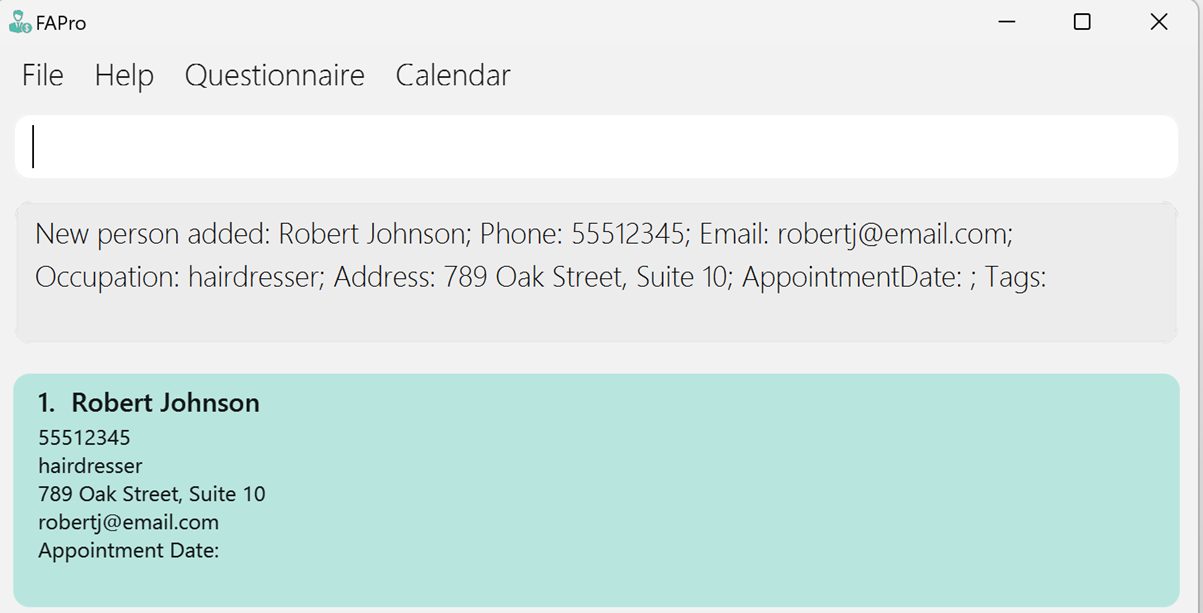
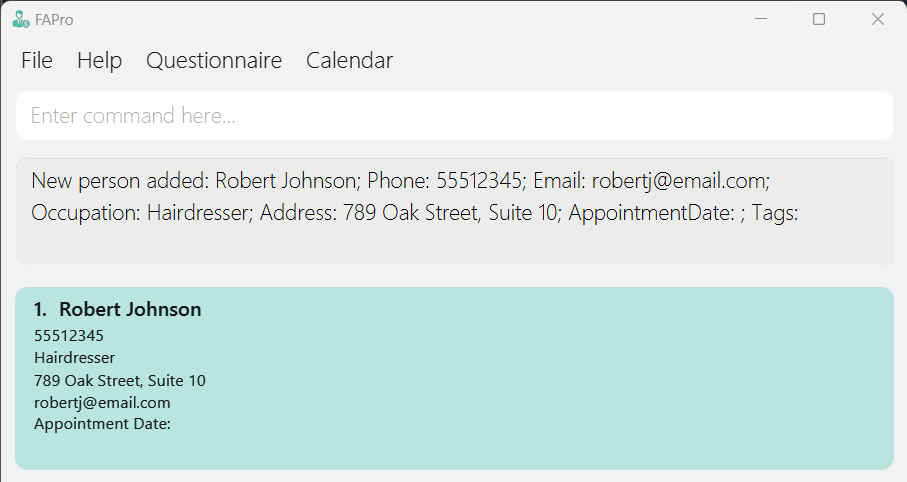
Updates Add, Clone and Delete in UG to be more user centric Updates screenshots for clarity

diff --git a/docs/UserGuide.md b/docs/UserGuide.md
@@ -208,7 +208,9 @@ If the RESULT is not separated by commas, with any whitespace or not in the rang
 
 ### Adding a person: `add`
 
-Adds a new entry to their address book for financial advisors, including personal details such as name, address, occupation, phone number and email.
+Allows you to add a new entry to your address book, including personal details such as your clients name, address, occupation, phone number and email.
+
+The main method you will be using to add contacts in typical situations.
 
 #### Format:
 * `add n/NAME p/PHONE_NUMBER e/EMAIL o/OCCUPATION a/ADDRESS [t/TAG]… [appt/APPOINTMENT_DATE]`
@@ -216,6 +218,7 @@ Adds a new entry to their address book for financial advisors, including persona
 #### Example commands:
 * `add n/John Doe p/98765432 e/johnd@example.com o/Barber a/John Street, Block 123, #01-01 appt/12-12-2023 08:30`
 * `add n/Betsy Crowe t/Friend e/betsycrowe@example.com o/Entrepreneur a/Newgate Prison p/1234567`
+* `add n/Robert Johnson p/55512345 e/robertj@email.com o/Hairdresser a/789 Oak Street, Suite 10`
 
 #### Acceptable values for each parameter:
 * NAME: Must be alphanumeric characters only. Name must be unique. (John Doe)
@@ -241,6 +244,10 @@ A person can have any number of tags (including 0)
   where X are the details of the person added
 
 * For example, for Robert Johnson (the example command), it would be:<br> `New person added: Robert Johnson; Phone: 55512345; Email: robertj@email.com; Occupation: Hairdresser; Address: 789 Oak Street, Suite 10; AppointmentDate: ; Tags: `<br> Please note that both Appointment Date and Tags are empty as they are not necessary for adding a person
+* This is the original empty address book
+
+  ![add format](images/add-UG/addbefore.png)
+  
 * The new entry is displayed in the address book GUI
 
   ![add format](images/add-UG/add_success.png)
@@ -252,7 +259,9 @@ If a required parameter is missing (e.g., NAME, EMAIL)
 * You should see this message:
 
   ```
-  Invalid command format! add: Adds a person to the address book. Parameters: n/NAME p/PHONE e/EMAIL a/ADDRESS [t/TAG]... Example: add n/John Doe p/98765432 e/johnd@example.com a/311, Clementi Ave 2, #02-25 t/friends t/owesMoney
+  Invalid command format! add: Adds a person to the address book. Parameters: n/NAME
+  p/PHONE e/EMAIL a/ADDRESS [t/TAG]... Example: add n/John Doe p/98765432
+  e/johnd@example.com a/311, Clementi Ave 2, #02-25 t/friends t/owesMoney
   ```
 
   ![add format](images/add-UG/addmissingparam.png)
@@ -263,12 +272,16 @@ If a parameter is provided in an invalid format (e.g., an invalid email address)
 
   ```
   Emails should be of the format local-part@domain and adhere to the following constraints:
-  1. The local-part should only contain alphanumeric characters and these special characters, excluding the parentheses, (+_.-). The local-part may not start or end with any special characters.
-  2. This is followed by a '@' and then a domain name. The domain name is made up of domain labels separated by periods.
+  1. The local-part should only contain alphanumeric characters and these special
+  characters, excluding the parentheses, (+_.-). The local-part may not start or end with
+  any special characters.
+  2. This is followed by a '@' and then a domain name. The domain name is made up of domain
+  labels separated by periods.
   The domain name must:
     - end with a domain label at least 2 characters long
     - have each domain label start and end with alphanumeric characters
-    - have each domain label consist of alphanumeric characters, separated only by hyphens, if any.
+    - have each domain label consist of alphanumeric characters, separated only by hyphens,
+      if any.
   ```
 
   ![add format](images/add-UG/addinvalidemail.png)
@@ -286,7 +299,9 @@ If a parameter is specified multiple times (e.g., --name John --name Doe), an er
 
 ### Cloning a person : `clone`
 
-Clones a contact from FAPro at the specified index. Makes it easier for you to add a contact with very similar details (i.e from the same household)
+Clones a contact from the address book at the specified index.
+
+Makes it easier for you to add a contact with very similar details (i.e from the same household)
 
 #### Format:
 * `clone INDEX`
@@ -315,14 +330,21 @@ After cloning, the clone is the exact same as the original, other than a suffix 
 * For example, if
 
   ```
-  Name: John Doe; Phone: 98765432; Email: johnd@example.com; Occupation: Barber; Address: Hougang Avenue 1; AppointmentDate: ; Tags:
+  Name: John Doe; Phone: 98765432; Email: johnd@example.com; Occupation: Barber;
+  Address: Hougang Avenue 1; AppointmentDate: ; Tags:
   ```
 
   is the person being cloned, then the output is:
 
   ```
-  Cloned Person: John Doe; Phone: 98765432; Email: johnd@example.com; Occupation: Barber; Address: Hougang Avenue 1; AppointmentDate: ; Tags:
+  Cloned Person: John Doe; Phone: 98765432; Email: johnd@example.com; Occupation: Barber;
+  Address: Hougang Avenue 1; AppointmentDate: ; Tags:
   ```
+* This is the original empty address book
+
+  ![add format](images/clone-UG/clonebefore.png)
+
+* The cloned entry is displayed in the address book GUI
 
   ![clone format](images/clone-UG/clone_success.png)
 
@@ -333,7 +355,8 @@ If no index, 0 or a negative index is entered next to the clone command
 * You should see this error message:
 
   ```
-  Invalid command format! clone: Clones the person identified by the index number used in the displayed person list. Parameters: INDEX (must be a positive integer).
+  Invalid command format! clone: Clones the person identified by the index number used
+  in the displayed person list. Parameters: INDEX (must be a positive integer).
   ```
 
   ![clone format](images/clone-UG/cloneinvalidindex.png)
@@ -353,7 +376,10 @@ If the suffix of the person being cloned is either 0 or 2147483647 (MAX_INT)
 * You should see this error message:
 
   ```
-  The integer suffix of the person being cloned is out of range. Please note that the smallest possible suffix that a person can have is 1 and the largest possible suffix that a person can have is 2147483647. As such, if your suffix is 0 or 2147483647, please consider editing the names of your contacts first.
+  The integer suffix of the person being cloned is out of range. Please note that
+  the smallest possible suffix that a person can have is 1 and the largest possible
+  suffix that a person can have is 2147483647. As such, if your suffix is 0 or
+  2147483647, please consider editing the names of your contacts first.
   ```
 
   ![clone format](images/clone-UG/clonesuffixerror.png)
@@ -361,7 +387,9 @@ If the suffix of the person being cloned is either 0 or 2147483647 (MAX_INT)
 
 ### Deleting a person : `delete`
 
-Deletes a contact from FAPro at the specified indexes.
+Deletes a contact from your address book at the specified indexes.
+
+Useful in instances where you have no more need for a clients contact details.
 
 #### Format: 
 * `delete INDEX [MORE INDEXES]`
@@ -408,7 +436,8 @@ If no index is placed after the delete command:
 
   ```
   Invalid command format! 
-  delete: Deletes the person(s) identified by the index number used in the displayed person list. 
+  delete: Deletes the person(s) identified by the index number used in the displayed
+  person list. 
   Parameters: INDEXES (must be positive integers, separated by spaces)
   Example: delete 1 3 5"
   ```
@@ -1034,7 +1063,7 @@ To circumvent this, you can add additional details to the name to differentiate 
 | Word                 | Meaning                                                                                                                         |
 |----------------------|---------------------------------------------------------------------------------------------------------------------------------|
 | **FA**               | Short form for financial advisor                                                                                                |
-| **Parameter**        | Values inputted by the user.<br/>e.g. NAME, OCCUPATION, ADDRESS                                                                 |
+| **Parameter**        | Values inputted by the you.<br/>e.g. NAME, OCCUPATION, ADDRESS                                                                  |
 | **Positive Integer** | An integer that is positive (i.e greater than 0). Please note that we are excluding 0 as a positive integer.                    |
 | **Prefix**           | Word that is added in front of parameter.<br/>e.g. n/, o/, a/                                                                   |
 | **Suffix**           | Number that is at the end of a persons name <br/>e.g. for John Doe 1, the suffix would be 1. For John Doe, no suffix is present |
